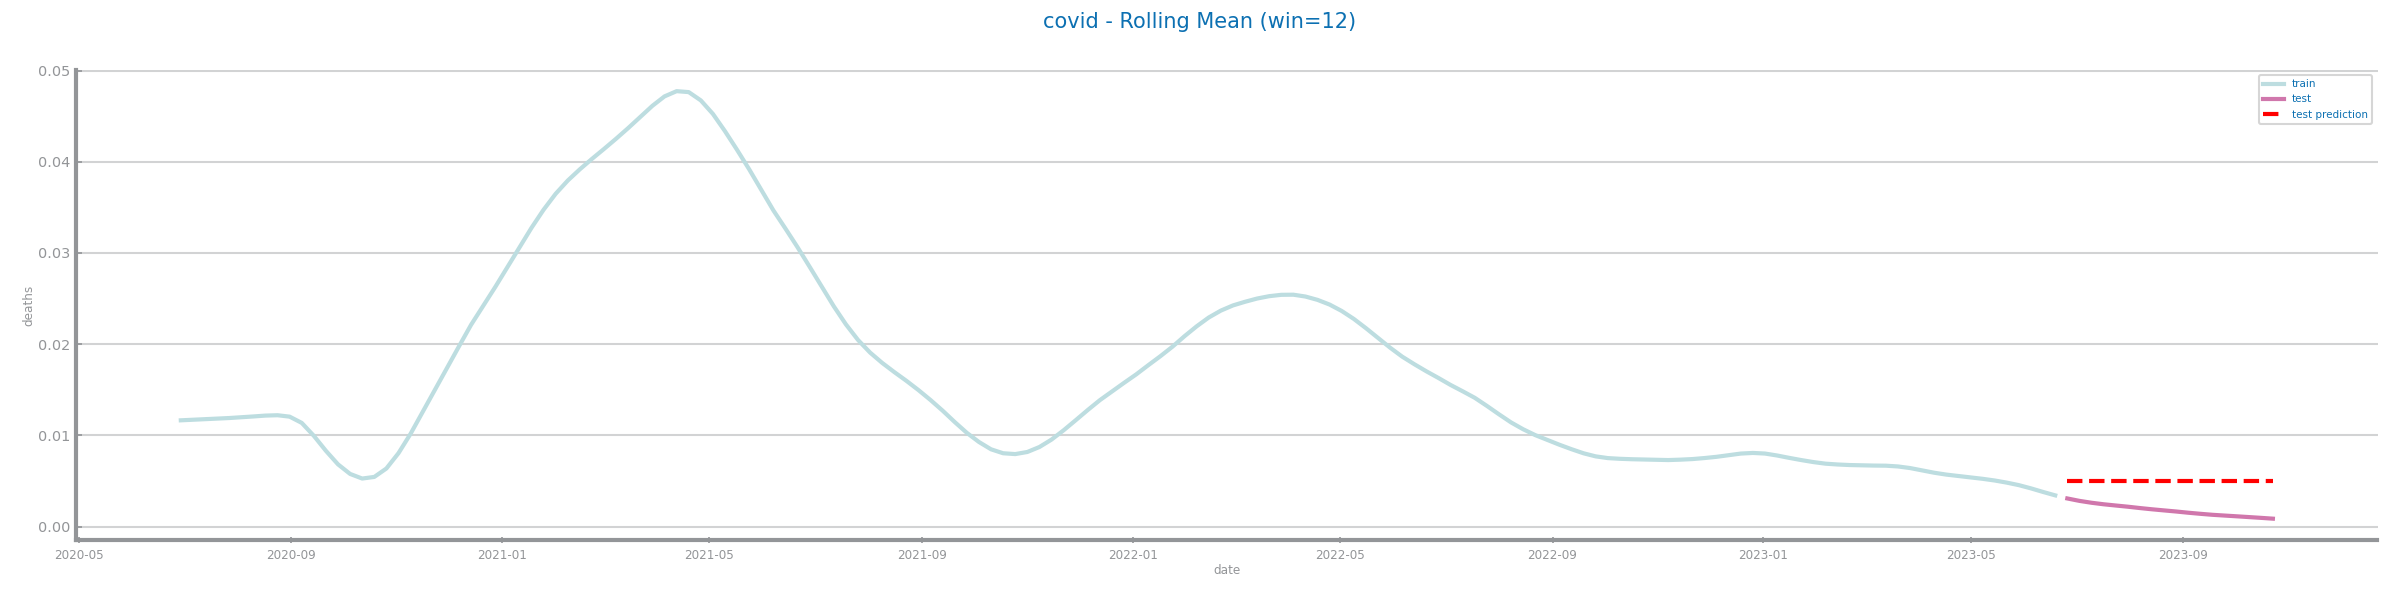
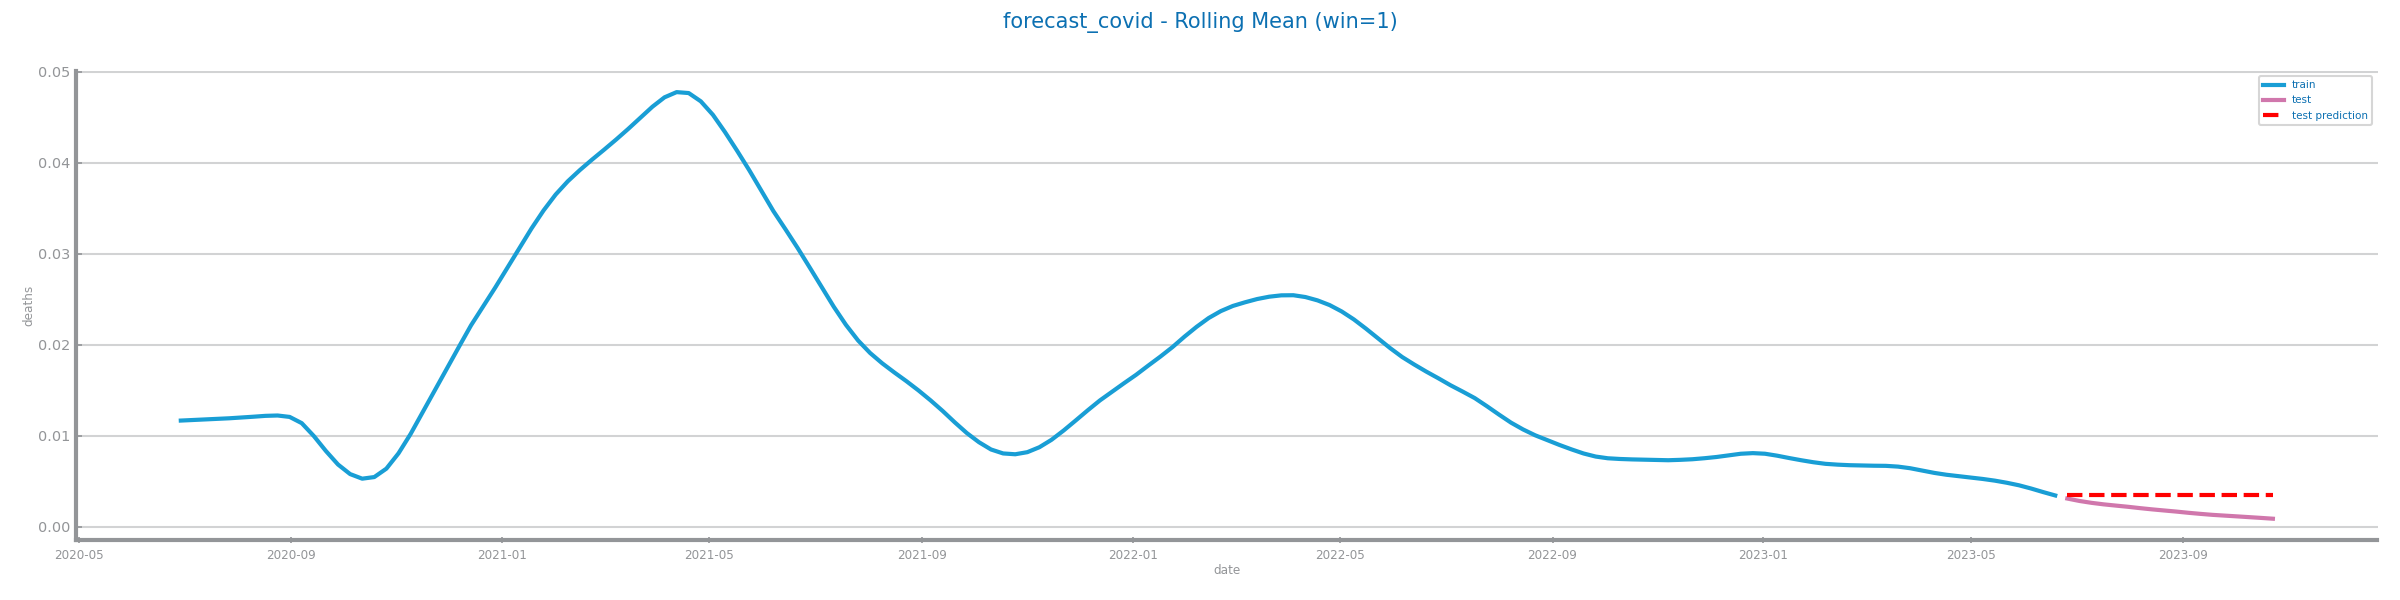
Updated rolling mean study and some plots.

diff --git a/utils/dslabs_functions.py b/utils/dslabs_functions.py
@@ -8,7 +8,7 @@ from itertools import product
 from math import pi, sin, cos, ceil, sqrt
 from numbers import Number
 from typing import Callable, Literal
-
+import numpy as np
 import matplotlib.pyplot as plt
 import statsmodels.api as sm
 from matplotlib.axes import Axes
@@ -39,7 +39,7 @@ from sklearn.neural_network import MLPClassifier
 from sklearn.preprocessing import OneHotEncoder, StandardScaler
 from sklearn.tree import DecisionTreeClassifier
 from statsmodels.tsa.stattools import adfuller
-
+from  utils.dslabs_functions_prof import plot_line_chart as plot_line_chart_prof
 from utils.dslabs_functions_prof2 import prepare_dataset_for_lstm, DS_LSTM
 from forecasting.models.RollingMeanRegressor import RollingMeanRegressor
 from utils.config import (
@@ -171,8 +171,15 @@ def plot_scatter_chart(var1: list, var2: list, ax: Axes = None, title: str = '',
     return ax
 
 
-def plot_multiline_chart(xvalues: list, yvalues: dict, ax: Axes = None, title: str = '', xlabel: str = '',
-                         ylabel: str = '', percentage: bool = False):
+def plot_multiline_chart(
+    xvalues: list,
+    yvalues: dict,
+    ax: Axes = None,  # type: ignore
+    title: str = "",
+    xlabel: str = "",
+    ylabel: str = "",
+    percentage: bool = False,
+) -> Axes:
     if ax is None:
         ax = gca()
     ax = set_chart_labels(ax=ax, title=title, xlabel=xlabel, ylabel=ylabel)
@@ -181,18 +188,20 @@ def plot_multiline_chart(xvalues: list, yvalues: dict, ax: Axes = None, title: s
     for name, y in yvalues.items():
         ax.plot(xvalues, y)
         legend.append(name)
-    ax.legend(legend)
+        if any(v < 0 for v in y) and percentage:
+            ax.set_ylim(-1.0, 1.0)
+    ax.legend(legend, fontsize="xx-small")
     return ax
 
 
 def plot_multibar_chart(
-    group_labels: list,
-    yvalues: dict,
-    ax: Axes = None,  # type: ignore
-    title: str = "",
-    xlabel: str = "",
-    ylabel: str = "",
-    percentage: bool = False,
+        group_labels: list,
+        yvalues: dict,
+        ax: Axes = None,  # type: ignore
+        title: str = "",
+        xlabel: str = "",
+        ylabel: str = "",
+        percentage: bool = False,
 ) -> Axes | list[Axes]:
     if ax is None:
         ax = gca()
@@ -925,8 +934,8 @@ def plot_evaluation_results(model, trn_y, prd_trn, tst_y, prd_tst, labels: ndarr
 from statsmodels.tsa.seasonal import DecomposeResult, seasonal_decompose
 
 
-def series_train_test_split(data: Series, trn_pct: float = 0.90) -> tuple[Series, Series]:
-    trn_size: int = int(len(data) * trn_pct)
+def series_train_test_split(data: Series, trn_pct: float = 0.90, offset: int = 0) -> tuple[Series, Series]:
+    trn_size: int = int(len(data) * trn_pct) + offset
     df_cp: Series = data.copy()
     train: Series = df_cp.iloc[:trn_size]
     test: Series = df_cp.iloc[trn_size:]
@@ -947,6 +956,7 @@ FORECAST_MEASURES = {
     "R2": r2_score,
     "MAPE": mean_absolute_percentage_error,
 }
+
 
 def plot_forecasting_series(
         trn: Series,
@@ -1066,11 +1076,8 @@ def scale_all_dataframe(data: DataFrame) -> DataFrame:
     return df
 
 
-def rolling_mean_study(train: Series, test: Series, measure: str = "R2"):
-    # win_size = (3, 5, 10, 15, 20, 25, 30, 40, 50)
-    win_size = [size for size in (12, 24, 48, 96, 192, 384, 768) if size <= len(train)]
-
-    flag = measure == "R2" or measure == "MAPE"
+def rolling_mean_study(train: Series, test: Series, measure: str = "R2", num_windows: int = 20):
+    win_size = np.linspace(1, len(train), num_windows).astype(int).tolist()
     best_model = None
     best_params: dict = {"name": "Rolling Mean", "metric": measure, "params": ()}
     best_performance: float = -100000
@@ -1090,8 +1097,8 @@ def rolling_mean_study(train: Series, test: Series, measure: str = "R2"):
         yvalues.append(eval)
 
     print(f"Rolling Mean best with win={best_params['params'][0]:.0f} -> {measure}={best_performance}")
-    plot_line_chart(
-        win_size, yvalues, title=f"Rolling Mean ({measure})", xlabel="window size", ylabel=measure, percentage=flag
+    plot_line_chart_prof(
+        win_size, yvalues, title=f"Rolling Mean ({measure})", xlabel="window size", ylabel=measure
     )
 
     return best_model, best_params
@@ -1123,6 +1130,10 @@ def arima_study(train: Series, test: Series, measure: str = "R2"):
                     best_performance: float = eval
                     best_params["params"] = (p, d, q)
                     best_model = model
+                if flag and eval > 1:
+                    eval = 1
+                elif flag and eval < -1:
+                    eval = -1
                 yvalues.append(eval)
             values[q] = yvalues
         plot_multiline_chart(
@@ -1507,6 +1518,7 @@ def mlp_study(
 
     return best_model, best_params
 
+
 def run_linear_regression_study(filename: str, file_tag: str, index_col: str, target: str, title: str):
     data: DataFrame = read_csv(filename, index_col=index_col, parse_dates=True, infer_datetime_format=True)
 
@@ -1542,6 +1554,7 @@ def run_linear_regression_study(filename: str, file_tag: str, index_col: str, ta
     plt.savefig(f"images/{file_tag}_linear_regression_forecast_{title}.png")
     plt.show()
     plt.clf()
+
 
 def lstm_study(train, test, nr_episodes: int = 1000, measure: str = "R2"):
     sequence_size = [2, 4, 8]

diff --git a/forecasting/models/traffic/persistence.py b/forecasting/models/traffic/persistence.py
@@ -12,7 +12,7 @@ target: str = "Total"
 traffic_data: DataFrame = read_csv(traffic_filename, index_col=index_col, parse_dates=True, infer_datetime_format=True)
 
 series: Series = traffic_data[target]
-train, test = series_train_test_split(series, trn_pct=0.90)
+train, test = series_train_test_split(series)
 
 # ------------------
 # Persistence Optimist Regressor

diff --git a/forecasting/models/covid/rolling_mean.py b/forecasting/models/covid/rolling_mean.py
@@ -1,6 +1,6 @@
 import matplotlib.pyplot as plt
 from pandas import read_csv, DataFrame, Series
-
+import numpy as np
 from utils.dslabs_functions import series_train_test_split, HEIGHT, rolling_mean_study, plot_forecasting_eval, \
     plot_forecasting_series
 
